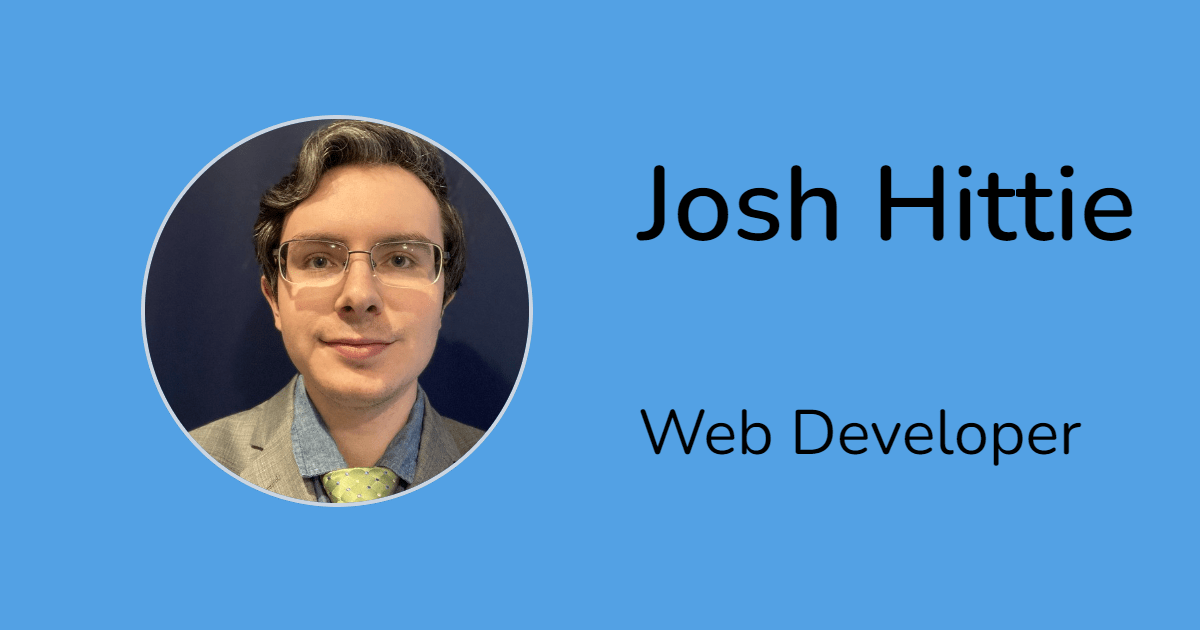
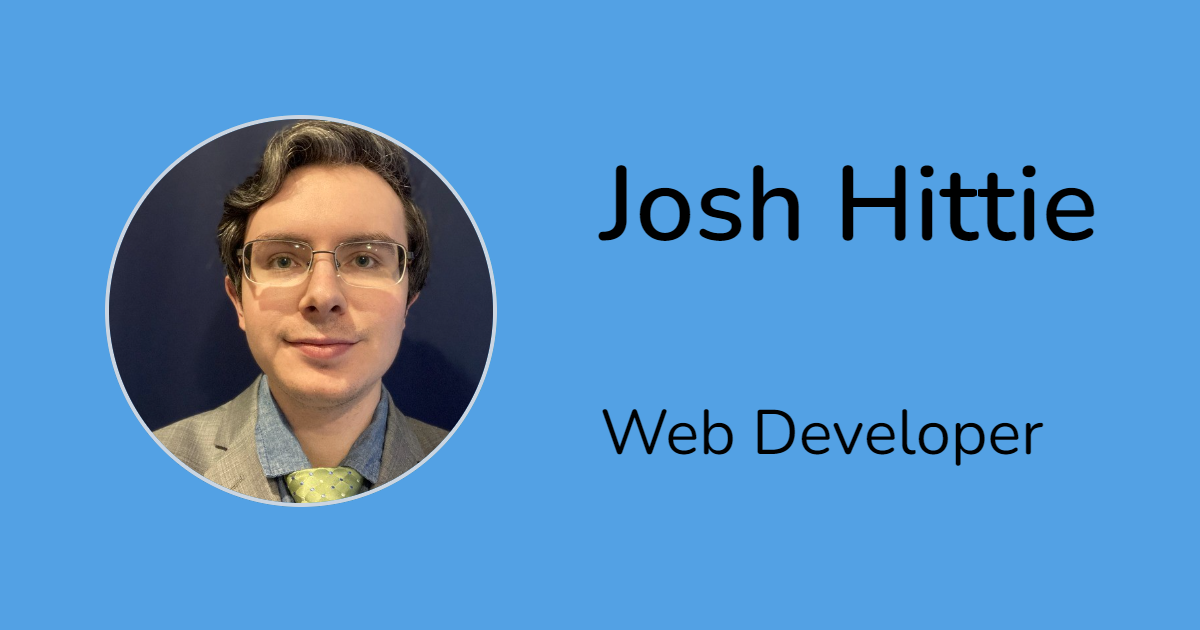
Made an update to the Open Graph Preview image to center it. Fixed a bug in Header.jsx related to destructuring props. Updated Projects.jsx to use context.

Changed region(s): [[0.0617, 0.181, 0.4625, 0.8143], [0.4933, 0.2413, 0.9558, 0.3921], [0.4933, 0.6333, 0.8942, 0.7238]]

diff --git a/src/pages/Projects.jsx b/src/pages/Projects.jsx
@@ -1,7 +1,11 @@
 import React, { useEffect } from "react";
 import useDocumentTitle from "../hooks/useDocumentTitle";
+import { useOutletContext } from "react-router-dom";
 
 export default function Projects() {
-    useDocumentTitle("Josh Hittie - Projects");
+    const configData = useOutletContext();
+    useDocumentTitle(
+        `${configData.name.first} ${configData.name.last} - Projects`,
+    );
     return <h2>I'm projects</h2>;
 }

diff --git a/src/components/Header.jsx b/src/components/Header.jsx
@@ -2,7 +2,7 @@ import React, { useState, useContext, useEffect } from "react";
 import { Link, NavLink } from "react-router-dom";
 import { DarkContext } from "./Layout";
 
-const DarkModeIcon = (isDarkMode) => {
+const DarkModeIcon = ({ isDarkMode }) => {
     if (isDarkMode) {
         return (
             <svg
